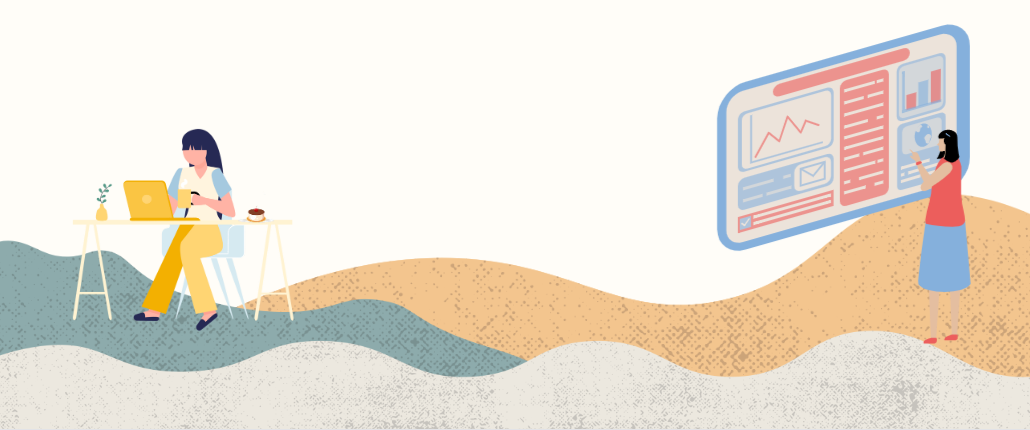
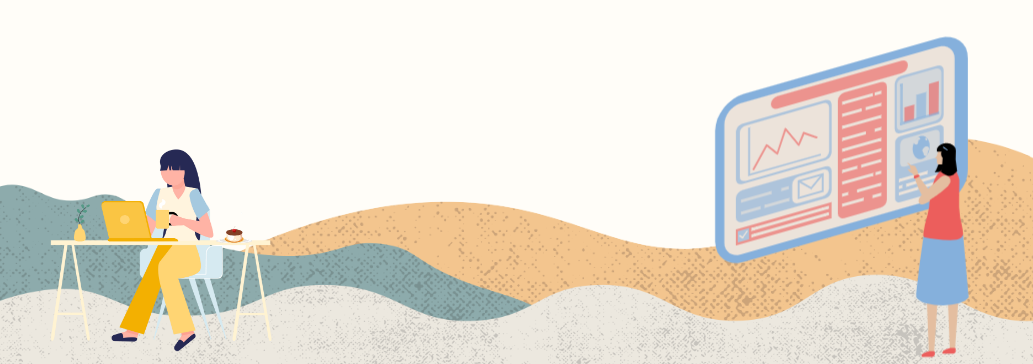
updated projects image and added resume image

diff --git a/resume.html b/resume.html
@@ -51,7 +51,7 @@
 					<div id="main">
 						<div class="inner">
 							<h1>Resume</h1>
-							<span class="image main"><img src="images/pic13.jpg" alt="" /></span>
+							<span class="image main"><img src="images/resume website.png" alt="" /></span>
 							<p>Donec eget ex magna. Interdum et malesuada fames ac ante ipsum primis in faucibus. Pellentesque venenatis dolor imperdiet dolor mattis sagittis. Praesent rutrum sem diam, vitae egestas enim auctor sit amet. Pellentesque leo mauris, consectetur id ipsum sit amet, fergiat. Pellentesque in mi eu massa lacinia malesuada et a elit. Donec urna ex, lacinia in purus ac, pretium pulvinar mauris. Curabitur sapien risus, commodo eget turpis at, elementum convallis elit. Pellentesque enim turpis, hendrerit tristique.</p>
 							<p>Lorem ipsum dolor sit amet, consectetur adipiscing elit. Duis dapibus rutrum facilisis. Class aptent taciti sociosqu ad litora torquent per conubia nostra, per inceptos himenaeos. Etiam tristique libero eu nibh porttitor fermentum. Nullam venenatis erat id vehicula viverra. Nunc ultrices eros ut ultricies condimentum. Mauris risus lacus, blandit sit amet venenatis non, bibendum vitae dolor. Nunc lorem mauris, fringilla in aliquam at, euismod in lectus. Pellentesque habitant morbi tristique senectus et netus et malesuada fames ac turpis egestas. In non lorem sit amet elit placerat maximus. Pellentesque aliquam maximus risus, vel venenatis mauris vehicula hendrerit.</p>
 							<p>Interdum et malesuada fames ac ante ipsum primis in faucibus. Pellentesque venenatis dolor imperdiet dolor mattis sagittis. Praesent rutrum sem diam, vitae egestas enim auctor sit amet. Pellentesque leo mauris, consectetur id ipsum sit amet, fersapien risus, commodo eget turpis at, elementum convallis elit. Pellentesque enim turpis, hendrerit tristique lorem ipsum dolor.</p>
